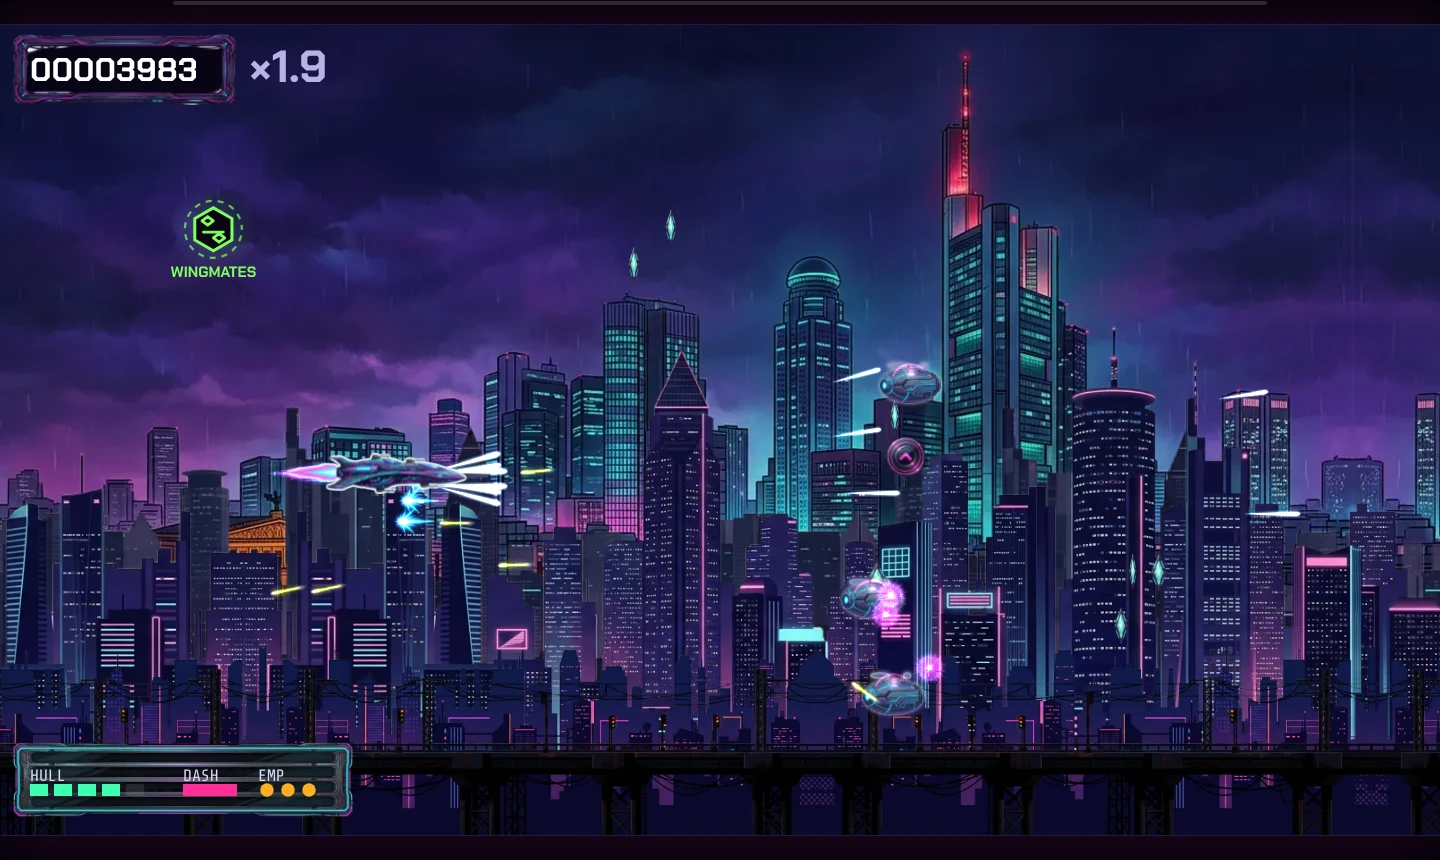
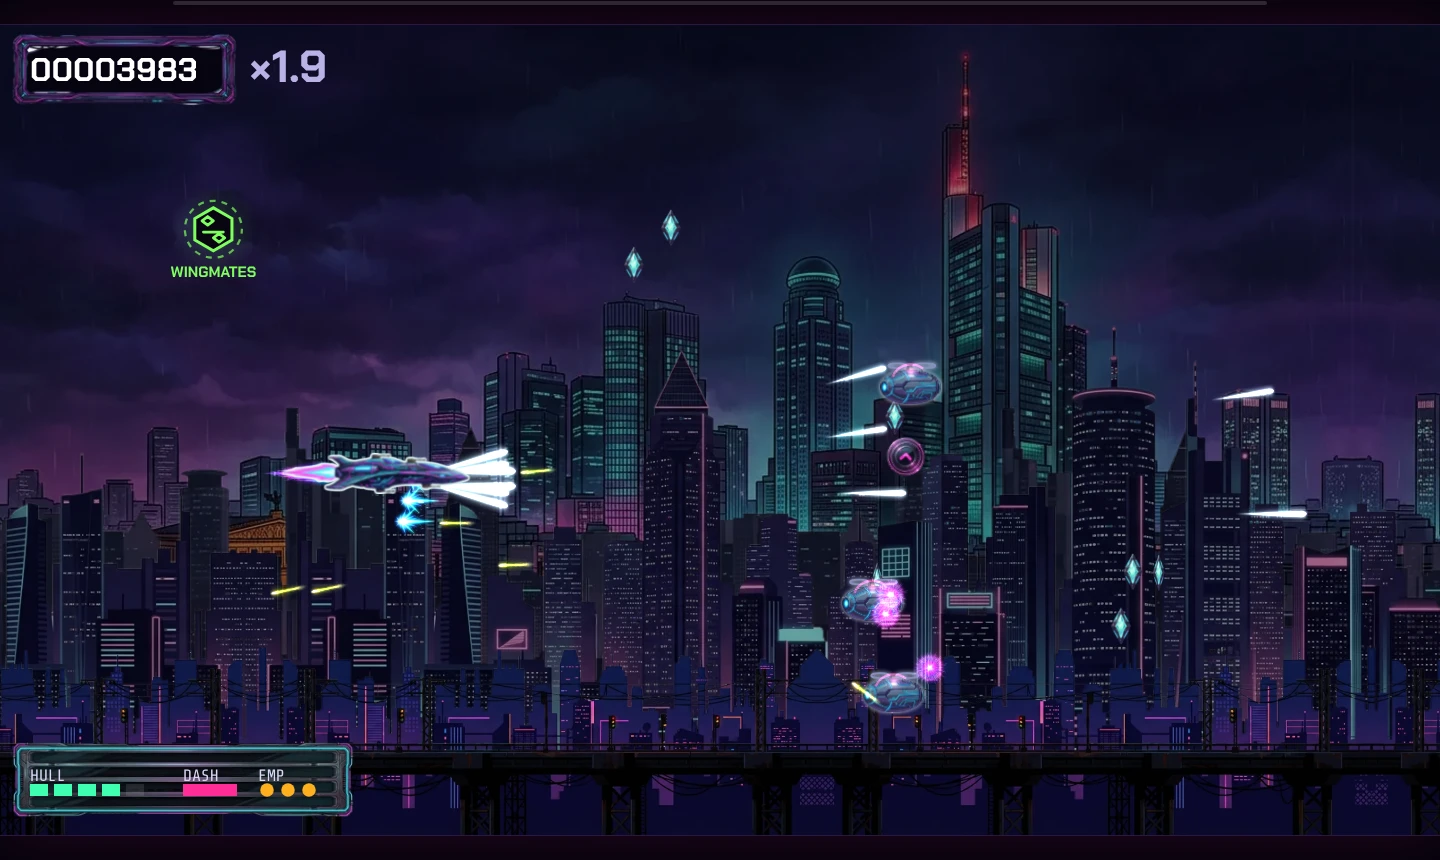
Nightrun W215: critic round 1 fixes, bigger player and shots, backdrop lowered in value

diff --git a/games-src/nightrun/parts/render/pure.js b/games-src/nightrun/parts/render/pure.js
@@ -9,10 +9,12 @@
    arming circles, hit flashes, tier glow, screen flash / glitch, floating text, edge pulses. Bosses and gate pylons have no single sheet
    drawn here yet: they keep the old draw. Gameplay is not touched (the sim never calls render). ---------- */
 if(RET.purelook===undefined)RET.purelook=!/[?&]purelook=0/.test(location.search);   // W215: the default flight look
-const PURL=window.PURL={K:90/520,PK:1.35,
+const PURL=window.PURL={K:90/520,get PK(){return wcv!==cv?1.6:1.4;},   // W215/W219: player 1.6x the enemies' texel scale on the phone, 1.4x on PC
   WARM:/^(beat|disc|flame|orbit|shell|storm|swarm)$/,   // W215: weapon shot pictures in the enemy-shot hues (lime / yellow / orange): drawn as the cool standard shot instead
-  cover(b,w,h){const s=Math.max(w/b.width,h/b.height),sw=w/s,sh=h/s;ctx.drawImage(b,(b.width-sw)/2,(b.height-sh)/2,sw,sh,0,0,w,h);},
-  tile(b,y,h,scroll,par){const tw=h*b.width/b.height,off=(scroll*par)%(2*tw);   // every other tile mirrored: no seam
+  dim(b){const D=this.DM||(this.DM=new Map());let c=D.get(b);if(c)return c;   // W219: backdrop layers only, once per picture: brightness .65, saturate .85, so the play layer is the brightest thing
+    c=document.createElement('canvas');c.width=b.width;c.height=b.height;const x=c.getContext('2d');x.filter='brightness(.65) saturate(.85)';x.drawImage(b,0,0);D.set(b,c);return c;},
+  cover(b,w,h){b=this.dim(b);const s=Math.max(w/b.width,h/b.height),sw=w/s,sh=h/s;ctx.drawImage(b,(b.width-sw)/2,(b.height-sh)/2,sw,sh,0,0,w,h);},
+  tile(b,y,h,scroll,par,keep){if(!keep)b=this.dim(b);const tw=h*b.width/b.height,off=(scroll*par)%(2*tw);   // every other tile mirrored: no seam
     for(let j=Math.floor(off/tw);j*tw-off<W;j++){const x=j*tw-off;if(x+tw<=0)continue;
       if(j&1){ctx.save();ctx.translate(x+tw,y);ctx.scale(-1,1);ctx.drawImage(b,0,0,tw,h);ctx.restore();}else ctx.drawImage(b,x,y,tw,h);}},
   bg(port,scroll){const di=G.di,n=ART.dn[di],D=DISTRICTS[di],bm=ART.bm;ctx.fillStyle='#000';
@@ -22,7 +24,7 @@ const PURL=window.PURL={K:90/520,PK:1.35,
     const far=bm['ly-far-'+n],mid=bm['ly-mid-'+n],nr=bm['ly-near-'+D.near];
     if(far){const fh=W*far.height/far.width;this.tile(far,H-60-fh,fh,scroll,.03);}
     if(mid)this.tile(mid,H-340,310,scroll,.3);
-    if(nr)this.tile(nr,H-130,130,scroll,1.1);},
+    if(nr)this.tile(nr,H-130,130,scroll,1.1,1);},   // the near strip keeps full value (play-layer depth)
   sheet(e){const M=ENEMY_ART[FOEART.id(e)];if(!M||e.type==='gate')return null;const m=M.native?{s:M.s||'e'+e.type,k:M.k||4.2}:FOEART.map(e);if(!m||!m.s)return null;
     const b='ship-'+m.s+'/',v=e.arm&&ART.ANIM.s[b+'volley']&&ART.anim(b+'volley'),key=b+(v?'volley':'flame');if(!ART.ANIM.s[key]||!ART.anim(key))return null;ART.anim(b+'death');return{m,key};},
   foe(e,t){const q=this.sheet(e);if(!q)return false;const{m,key}=q,s=ART.ANIM.s[key],fw=s[2],w=clamp(m.w||e.r*(m.k||4.2),this.K*fw*.8,this.K*fw*1.25),sc=w/fw,rot=m.rot?m.rot(e,t):0;
@@ -44,9 +46,9 @@ const PURL=window.PURL={K:90/520,PK:1.35,
     ctx.drawImage(O[0],-W_/2,-H_/2,W_,H_);},
   pic(n,x,y,w,ang,hk){const b=ART.bm[n];if(!b){if(b===undefined)ART.load(n);return false;}const h=w*b.height/b.width*(hk||1);ctx.save();ctx.globalCompositeOperation='lighter';ctx.translate(x,y);if(ang)ctx.rotate(ang);ctx.drawImage(b,-w/2,-h/2,w,h);ctx.restore();return true;},
   shots(){for(const b of G.pb){const a=(b.vx||b.vy)?Math.atan2(b.vy,b.vx):0,wn=b.wid&&!this.WARM.test(b.wid)?'fx-w-'+b.wid+'-bullet':null;   // player shots keep the cool hues (cyan / white / violet); enemy shots own lime to orange
-      if(wn&&this.pic(wn,b.x,b.y,34,a))continue;
-      const n=b.hv?'fx-shot-hv':b.ec?'fx-shot-ec':'fx-shot-std',w=b.hv?46:b.ec?34:(b.len||(b.big?22:20))*1.9*(b.pf?1.3:1);
-      if(this.pic(n,b.x,b.y,w,a)&&n==='fx-shot-std')this.pic(n,b.x,b.y,w,a);}   // the thin standard streak twice (additive): bright enough to read at game size
+      if(wn&&this.pic(wn,b.x,b.y,44,a))continue;
+      const n=b.hv?'fx-shot-hv':b.ec?'fx-shot-ec':'fx-shot-std',w=b.hv?52:b.ec?40:(b.len||(b.big?22:20))*2.4*(b.pf?1.3:1);
+      if(this.pic(n,b.x,b.y,w,a,1.7)&&n==='fx-shot-std')this.pic(n,b.x,b.y,w*.8,a,1);}   // body thicker, then the core again additively   // the thin standard streak twice (additive): bright enough to read at game size
     for(const b of G.eb){const a=Math.atan2(b.vy||0,b.vx||-1);
       if(b.hm>0&&this.pic('fx-orb-homing',b.x,b.y,b.r*3.6))continue;
       if(b.k==='n'&&this.pic('fx-bullet-needle',b.x,b.y,b.r*10,a,2.4)){this.pic('fx-bullet-needle',b.x,b.y,b.r*10,a,2.4);continue;}   // W215: the thin needle twice and longer, it vanished at game size

diff --git a/games-src/nightrun/review-shots/W215/README.md b/games-src/nightrun/review-shots/W215/README.md
@@ -21,19 +21,25 @@ With the old look there are also text overlaps. The draw-site list in VISUAL-INV
 phone-check: 390x763, 375x553 and 844x390 PASS. The three rotation scenarios crash inside the harness (`setViewportSize: Protocol
 error (Browser.setWindowBounds)`) before the game is involved.
 
+## Round 2: critic W219 (round 1 scored find-player 1, bullets 3, grayscale 3, silhouette 4, benchmark 2 on nr/W214-pure)
+- The player is now 1.6x the enemies' texel scale on the phone and 1.4x on PC (PURL.PK).
+- Player shots: the standard streak is 2.4x longer and 1.7x thicker, with its core drawn again additively. Weapon shot pictures are 44 wide.
+- The backdrop (bg, far, mid) is drawn from a copy made once per picture with brightness .65 and saturate .85. The near strip and
+  every sprite are not filtered. The shots above are from round 2. Render-only change: the sim does not call render, so simhunt is unchanged.
+
 ## Strict critic pass (game-look). Benchmark: Ref A, https://shared.akamai.steamstatic.com/store_item_assets/steam/apps/347160/ss_adc04f49419d282ee67a894af25cfdf5bed88439.1920x1080.jpg
 
 | # | test | score | what still fails |
 |---|---|---|---|
 | 1 | Owner art only | 6 | Pickups are still drawn by code in the play field: the cyan "B" letter and the green WINGMATES hex with its caption (`pkPaint`, `PW.pickup`; not in this task's scope). The player outline is code, but it matches the benchmark. |
-| 2 | Grayscale | 7 | The player (light outline) and the enemies separate from the city by value. The lime orbs separate too. Needles are thin on the phone. |
+| 2 | Grayscale | 8 | With the backdrop at .65 value, the player, the enemies and every shot are the brightest things on screen. |
 | 3 | Silhouette | 7 | The long player dart and the round drones/gunship read as different shapes. Enemies are small next to Ref A's. |
-| 4 | Find the player (phone) | 7 | The outline, the engine light and a fan of white shots mark it at once. The ship's own colours are still blue on a blue city. |
+| 4 | Find the player (phone) | 8 | The ship is about 1/7 of the screen width, and its outline, engine light and fan of white shots mark it at once. The ship's own colours are still blue on a blue city. |
 | 5 | Bullets | 7 | Player shots are white/cyan and enemy shots lime/yellow; nothing shares a hue. The yellow needles are still thin on the phone, and the white player streaks have the same shape as the needles. |
 | 6 | Clutter | 8 | Field marks: "B" and WINGMATES (2). The HUD is at the edges. |
-| 7 | Benchmark side by side | 5 | Ref A has a few big, bright, outlined actors on a quiet backdrop. Ours is a busy, bright painting with small actors, and no shot reaches Ref A's chunky, glowing bullets. |
+| 7 | Benchmark side by side | 6 | Ref A has a few big, bright, outlined actors on a quiet backdrop. The backdrop is now quieter, but the enemies are still small, and no shot reaches Ref A's chunky, glowing bullets. |
 
 Not every row is at 7 or higher. Rows 1 and 7 are below, and fixing them is outside this task:
 1. Draw the pickups ("B" letter, power-up hex and caption) from owner pictures, with no text in the field.
 2. Enemy actors at the player's scale, or larger pictures for the small drones (art or size decision, for the owner).
-3. Calmer phone backdrop behind the play band (art: a darker variant of `bg-<district>-phone`) so the actors become the brightest layer.
+3. Done in round 2 by dimming the backdrop in code. A darker painted variant from the owner would look better than the filter.
